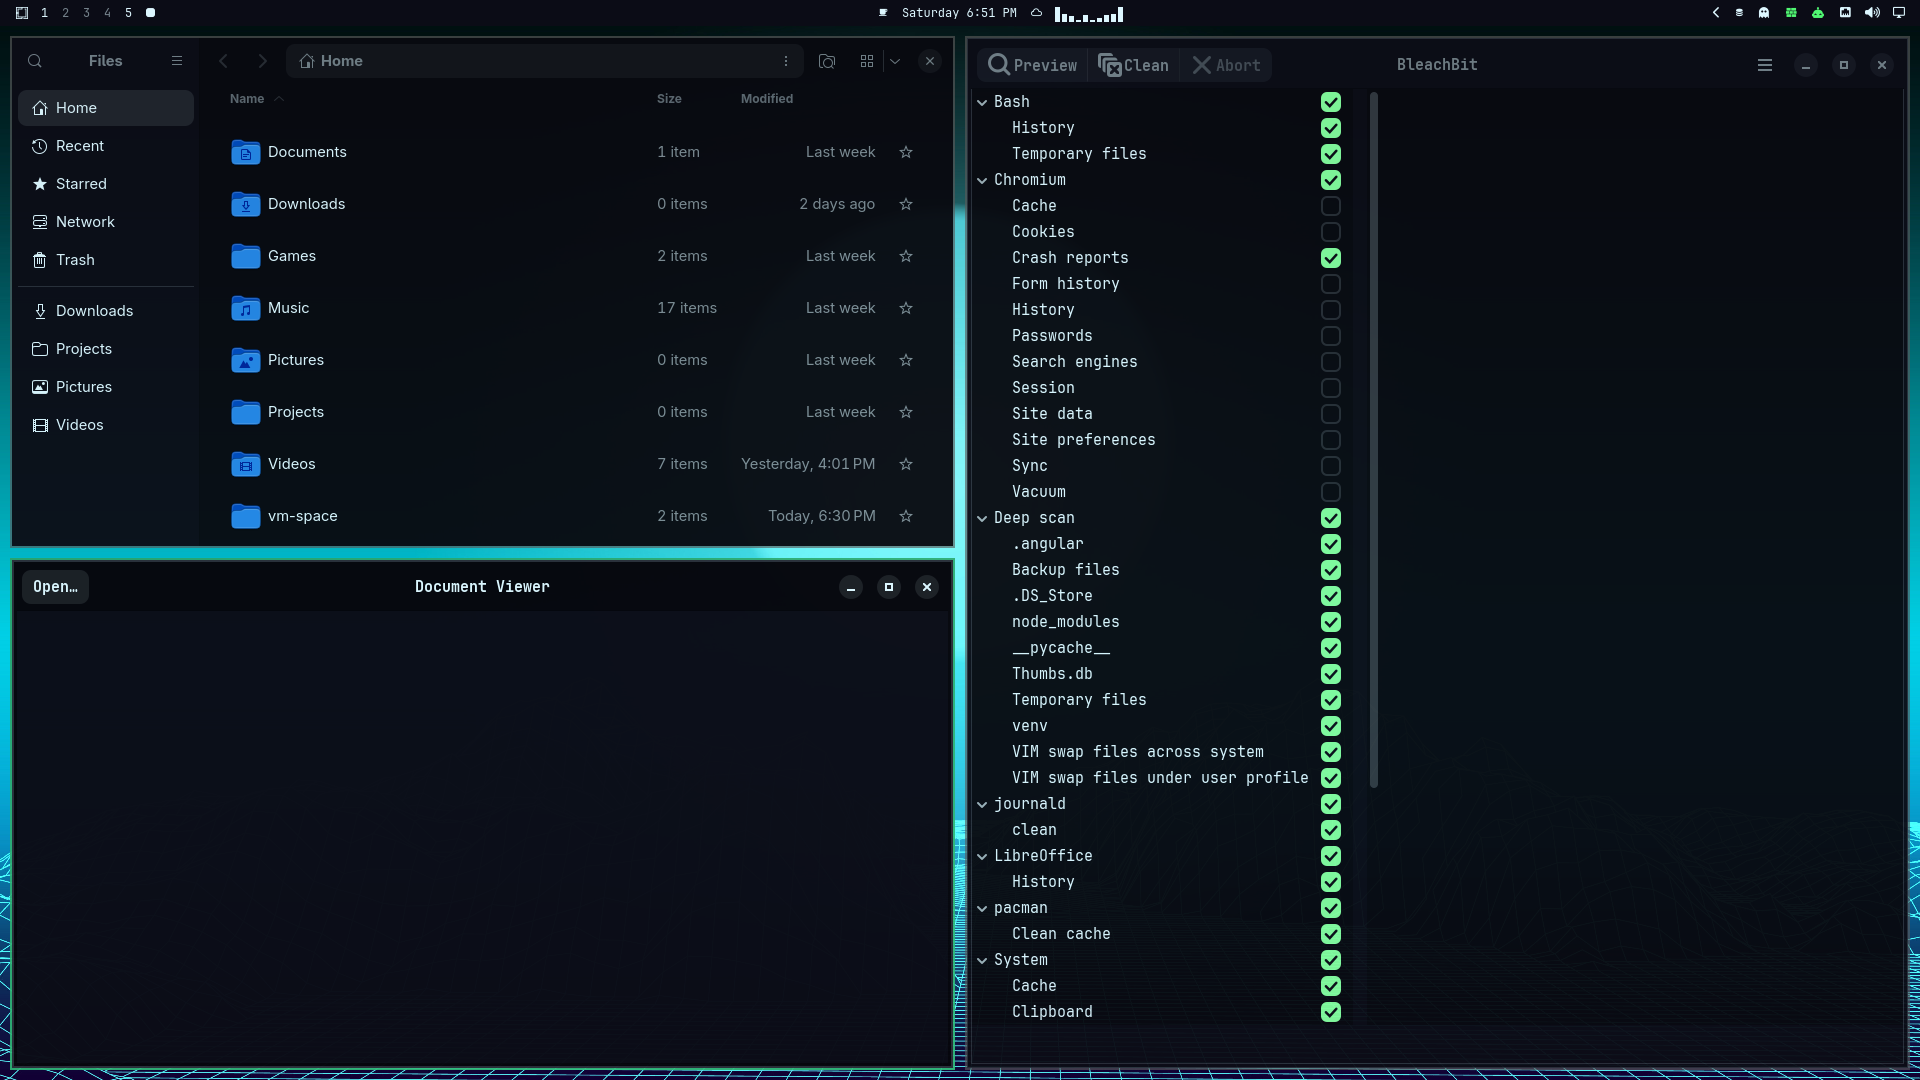
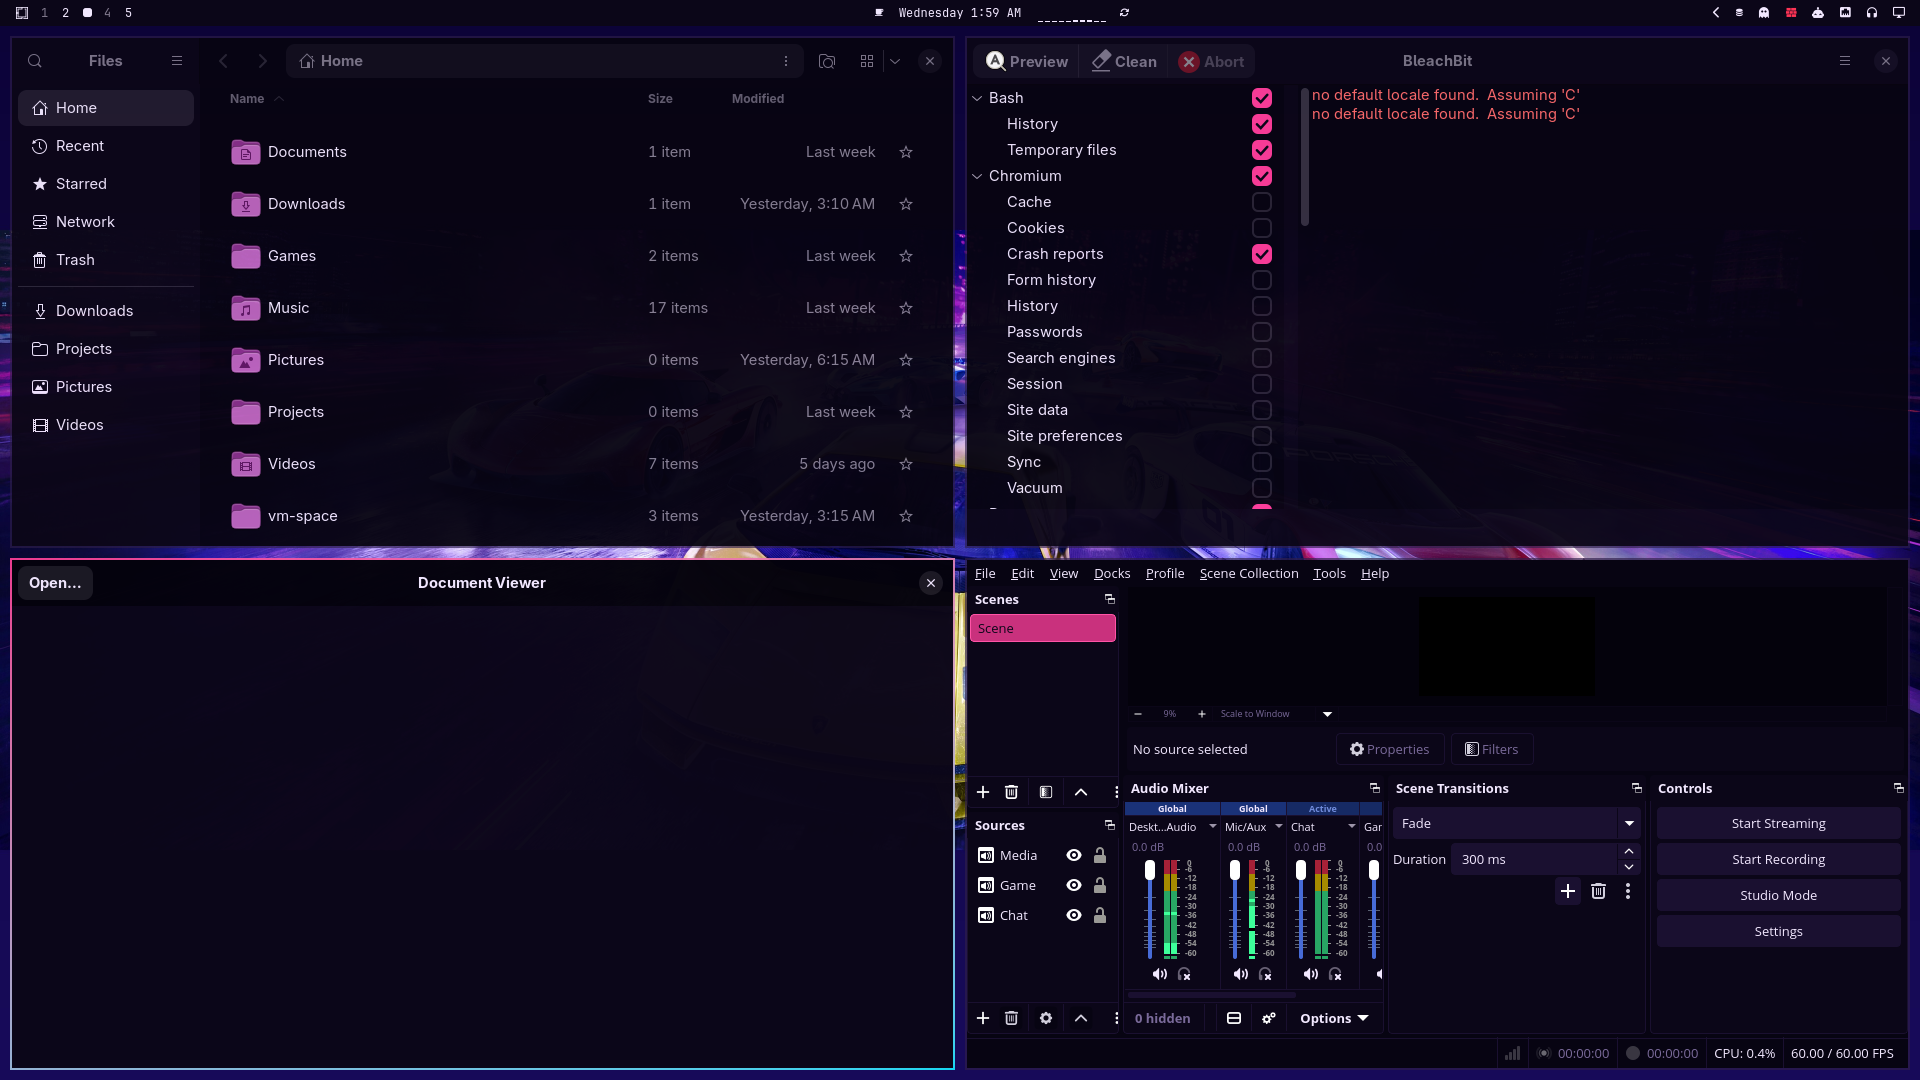
Refresh hero shot on Asphalt Legends.
Show Files, BleachBit, Document Viewer, and OmaOBS-themed OBS (display capture parked) wearing the origin-story palette.

diff --git a/README.md b/README.md
@@ -5,11 +5,11 @@ one-sweep: it paints the GTK and Qt *pipelines* most desktop apps already
 use, so dozens of programs pick up the active theme without a Style picker
 or a per-app skin.**
 
-![Chroma on Hackerman — Files, Document Viewer, and BleachBit wearing the theme](preview.png)
+![Chroma on Asphalt Legends — Files, BleachBit, Document Viewer, and OBS wearing the theme](preview.png)
 
 Stock Omarchy flips Nautilus, BleachBit, Evince and friends between light and
 dark Adwaita. That is all they ever get: the same default grey in every theme.
-Your desktop wears Hackerman neon; your file manager wears beige.
+Your desktop wears Asphalt magenta; your file manager wears beige.
 
 Chroma closes that gap. Enable it once and every `omarchy theme set` paints
 GTK3, GTK4 / libadwaita, and Qt (via Omarchy's stock `QT_QPA_PLATFORMTHEME=gtk3`)
